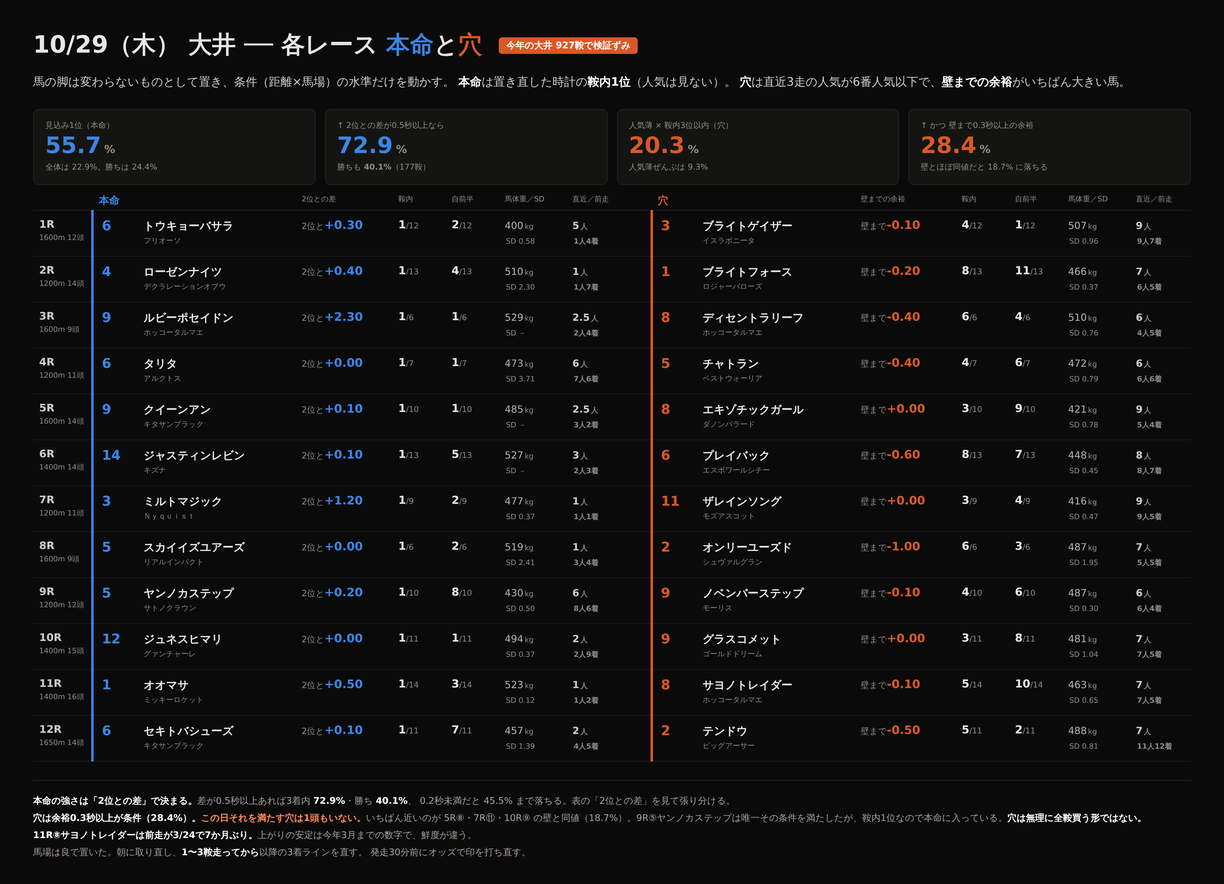
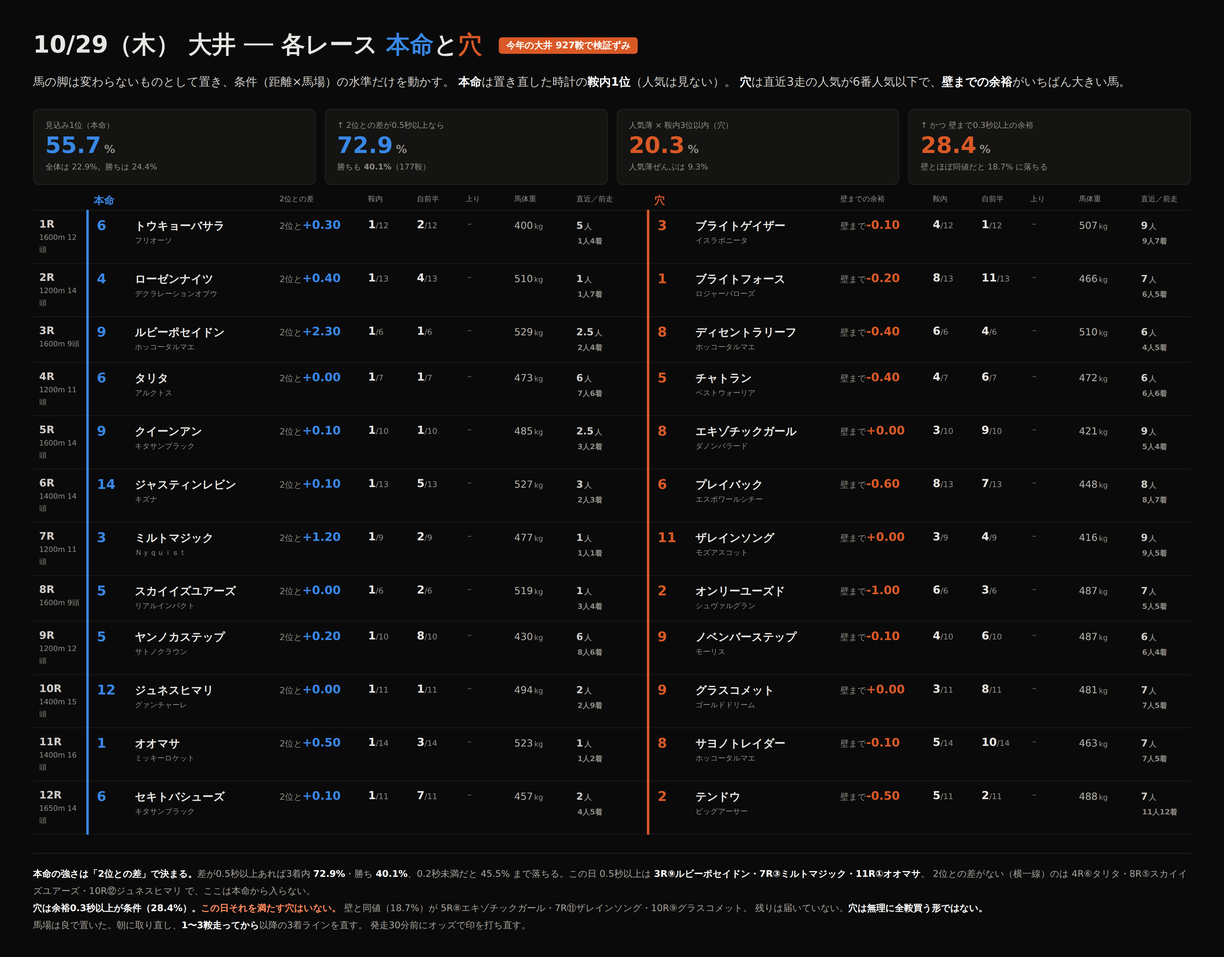
大井 10/28 の本命・穴と、脚注をその日の中身から組むように
脚注に前日ぶんの馬名が残っていたので、本命の「2位との差」と
穴の「壁までの余裕」からその場で文を組むようにした。
上がり（同距離帯の過去の中央値）の鞍内順位の欄も足した。

10/28
  本命で2位との差0.5秒以上 … なし（最大は5R⑧の+0.40）
  穴で余裕0.3秒以上 … 1R⑩ムーンショア・2R③ノーブルミューズ・
                     3R②グレートロッタリー
  壁と同値 … 4R⑪ガリマド・6R④グロードリーム・8R⑥ハルイチバン

事前に分かる形での検証（今年の大井）
  同距離帯の過去の上がりが鞍内1位  157/404 38.9%（全体18.4%）
    うち6番人気以下                28/165 17.0%
  実際の上がり最速（レース後）      644/899 71.6%

Claude-Session: https://claude.ai/code/session_01RoHscZkr96FNaxQWvUqgEw

diff --git a/notes/live/2026-10-29/ooi_1029.html b/notes/live/2026-10-29/ooi_1029.html
@@ -61,15 +61,12 @@ footer b{color:#fff} footer .hl{color:#ff8a5c;font-weight:700}
   <div class=n>壁とほぼ同値だと 18.7% に落ちる</div></div>
 </div>
 <table><thead><tr><th></th><th class=h colspan=2>本命</th>
-<th>2位との差</th><th>鞍内</th><th>自前半</th><th>馬体重／SD</th><th>直近／前走</th>
+<th>2位との差</th><th>鞍内</th><th>自前半</th><th>上り</th><th>馬体重</th><th>直近／前走</th>
 <th></th><th class=a colspan=2>穴</th>
-<th>壁までの余裕</th><th>鞍内</th><th>自前半</th><th>馬体重／SD</th><th>直近／前走</th>
-</tr></thead><tbody><tr><td class=r>1R<br><span class=dm>1600m 12頭</span></td><td class=u style="--c:#3987e5">6</td><td class=nm>トウキョーバサラ<span class=si>フリオーソ</span></td><td class=ex style="--c:#3987e5">2位と<b>+0.30</b></td><td class=rk><b>1</b>/12</td><td class=rk><b>2</b>/12</td><td class=sm>400<span class=un>kg</span><br><span class=un>SD 0.58</span></td><td class=pp>5<span class=un>人</span><br><span class=un>1人4着</span></td><td class=gap></td><td class=u style="--c:#d95926">3</td><td class=nm>ブライトゲイザー<span class=si>イスラボニータ</span></td><td class=ex style="--c:#d95926">壁まで<b>-0.10</b></td><td class=rk><b>4</b>/12</td><td class=rk><b>1</b>/12</td><td class=sm>507<span class=un>kg</span><br><span class=un>SD 0.96</span></td><td class=pp>9<span class=un>人</span><br><span class=un>9人7着</span></td></tr><tr><td class=r>2R<br><span class=dm>1200m 14頭</span></td><td class=u style="--c:#3987e5">4</td><td class=nm>ローゼンナイツ<span class=si>デクラレーションオブウ</span></td><td class=ex style="--c:#3987e5">2位と<b>+0.40</b></td><td class=rk><b>1</b>/13</td><td class=rk><b>4</b>/13</td><td class=sm>510<span class=un>kg</span><br><span class=un>SD 2.30</span></td><td class=pp>1<span class=un>人</span><br><span class=un>1人7着</span></td><td class=gap></td><td class=u style="--c:#d95926">1</td><td class=nm>ブライトフォース<span class=si>ロジャーバローズ</span></td><td class=ex style="--c:#d95926">壁まで<b>-0.20</b></td><td class=rk><b>8</b>/13</td><td class=rk><b>11</b>/13</td><td class=sm>466<span class=un>kg</span><br><span class=un>SD 0.37</span></td><td class=pp>7<span class=un>人</span><br><span class=un>6人5着</span></td></tr><tr><td class=r>3R<br><span class=dm>1600m 9頭</span></td><td class=u style="--c:#3987e5">9</td><td class=nm>ルビーポセイドン<span class=si>ホッコータルマエ</span></td><td class=ex style="--c:#3987e5">2位と<b>+2.30</b></td><td class=rk><b>1</b>/6</td><td class=rk><b>1</b>/6</td><td class=sm>529<span class=un>kg</span><br><span class=un>SD －</span></td><td class=pp>2.5<span class=un>人</span><br><span class=un>2人4着</span></td><td class=gap></td><td class=u style="--c:#d95926">8</td><td class=nm>ディセントラリーフ<span class=si>ホッコータルマエ</span></td><td class=ex style="--c:#d95926">壁まで<b>-0.40</b></td><td class=rk><b>6</b>/6</td><td class=rk><b>4</b>/6</td><td class=sm>510<span class=un>kg</span><br><span class=un>SD 0.76</span></td><td class=pp>6<span class=un>人</span><br><span class=un>4人5着</span></td></tr><tr><td class=r>4R<br><span class=dm>1200m 11頭</span></td><td class=u style="--c:#3987e5">6</td><td class=nm>タリタ<span class=si>アルクトス</span></td><td class=ex style="--c:#3987e5">2位と<b>+0.00</b></td><td class=rk><b>1</b>/7</td><td class=rk><b>1</b>/7</td><td class=sm>473<span class=un>kg</span><br><span class=un>SD 3.71</span></td><td class=pp>6<span class=un>人</span><br><span class=un>7人6着</span></td><td class=gap></td><td class=u style="--c:#d95926">5</td><td class=nm>チャトラン<span class=si>ベストウォーリア</span></td><td class=ex style="--c:#d95926">壁まで<b>-0.40</b></td><td class=rk><b>4</b>/7</td><td class=rk><b>6</b>/7</td><td class=sm>472<span class=un>kg</span><br><span class=un>SD 0.79</span></td><td class=pp>6<span class=un>人</span><br><span class=un>6人6着</span></td></tr><tr><td class=r>5R<br><span class=dm>1600m 14頭</span></td><td class=u style="--c:#3987e5">9</td><td class=nm>クイーンアン<span class=si>キタサンブラック</span></td><td class=ex style="--c:#3987e5">2位と<b>+0.10</b></td><td class=rk><b>1</b>/10</td><td class=rk><b>1</b>/10</td><td class=sm>485<span class=un>kg</span><br><span class=un>SD －</span></td><td class=pp>2.5<span class=un>人</span><br><span class=un>3人2着</span></td><td class=gap></td><td class=u style="--c:#d95926">8</td><td class=nm>エキゾチックガール<span class=si>ダノンバラード</span></td><td class=ex style="--c:#d95926">壁まで<b>+0.00</b></td><td class=rk><b>3</b>/10</td><td class=rk><b>9</b>/10</td><td class=sm>421<span class=un>kg</span><br><span class=un>SD 0.78</span></td><td class=pp>9<span class=un>人</span><br><span class=un>5人4着</span></td></tr><tr><td class=r>6R<br><span class=dm>1400m 14頭</span></td><td class=u style="--c:#3987e5">14</td><td class=nm>ジャスティンレビン<span class=si>キズナ</span></td><td class=ex style="--c:#3987e5">2位と<b>+0.10</b></td><td class=rk><b>1</b>/13</td><td class=rk><b>5</b>/13</td><td class=sm>527<span class=un>kg</span><br><span class=un>SD －</span></td><td class=pp>3<span class=un>人</span><br><span class=un>2人3着</span></td><td class=gap></td><td class=u style="--c:#d95926">6</td><td class=nm>プレイバック<span class=si>エスポワールシチー</span></td><td class=ex style="--c:#d95926">壁まで<b>-0.60</b></td><td class=rk><b>8</b>/13</td><td class=rk><b>7</b>/13</td><td class=sm>448<span class=un>kg</span><br><span class=un>SD 0.45</span></td><td class=pp>8<span class=un>人</span><br><span class=un>8人7着</span></td></tr><tr><td class=r>7R<br><span class=dm>1200m 11頭</span></td><td class=u style="--c:#3987e5">3</td><td class=nm>ミルトマジック<span class=si>Ｎｙｑｕｉｓｔ</span></td><td class=ex style="--c:#3987e5">2位と<b>+1.20</b></td><td class=rk><b>1</b>/9</td><td class=rk><b>2</b>/9</td><td class=sm>477<span class=un>kg</span><br><span class=un>SD 0.37</span></td><td class=pp>1<span class=un>人</span><br><span class=un>1人1着</span></td><td class=gap></td><td class=u style="--c:#d95926">11</td><td class=nm>ザレインソング<span class=si>モズアスコット</span></td><td class=ex style="--c:#d95926">壁まで<b>+0.00</b></td><td class=rk><b>3</b>/9</td><td class=rk><b>4</b>/9</td><td class=sm>416<span class=un>kg</span><br><span class=un>SD 0.47</span></td><td class=pp>9<span class=un>人</span><br><span class=un>9人5着</span></td></tr><tr><td class=r>8R<br><span class=dm>1600m 9頭</span></td><td class=u style="--c:#3987e5">5</td><td class=nm>スカイイズユアーズ<span class=si>リアルインパクト</span></td><td class=ex style="--c:#3987e5">2位と<b>+0.00</b></td><td class=rk><b>1</b>/6</td><td class=rk><b>2</b>/6</td><td class=sm>519<span class=un>kg</span><br><span class=un>SD 2.41</span></td><td class=pp>1<span class=un>人</span><br><span class=un>3人4着</span></td><td class=gap></td><td class=u style="--c:#d95926">2</td><td class=nm>オンリーユーズド<span class=si>シュヴァルグラン</span></td><td class=ex style="--c:#d95926">壁まで<b>-1.00</b></td><td class=rk><b>6</b>/6</td><td class=rk><b>3</b>/6</td><td class=sm>487<span class=un>kg</span><br><span class=un>SD 1.95</span></td><td class=pp>7<span class=un>人</span><br><span class=un>5人5着</span></td></tr><tr><td class=r>9R<br><span class=dm>1200m 12頭</span></td><td class=u style="--c:#3987e5">5</td><td class=nm>ヤンノカステップ<span class=si>サトノクラウン</span></td><td class=ex style="--c:#3987e5">2位と<b>+0.20</b></td><td class=rk><b>1</b>/10</td><td class=rk><b>8</b>/10</td><td class=sm>430<span class=un>kg</span><br><span class=un>SD 0.50</span></td><td class=pp>6<span class=un>人</span><br><span class=un>8人6着</span></td><td class=gap></td><td class=u style="--c:#d95926">9</td><td class=nm>ノベンバーステップ<span class=si>モーリス</span></td><td class=ex style="--c:#d95926">壁まで<b>-0.10</b></td><td class=rk><b>4</b>/10</td><td class=rk><b>6</b>/10</td><td class=sm>487<span class=un>kg</span><br><span class=un>SD 0.30</span></td><td class=pp>6<span class=un>人</span><br><span class=un>6人4着</span></td></tr><tr><td class=r>10R<br><span class=dm>1400m 15頭</span></td><td class=u style="--c:#3987e5">12</td><td class=nm>ジュネスヒマリ<span class=si>グァンチャーレ</span></td><td class=ex style="--c:#3987e5">2位と<b>+0.00</b></td><td class=rk><b>1</b>/11</td><td class=rk><b>1</b>/11</td><td class=sm>494<span class=un>kg</span><br><span class=un>SD 0.37</span></td><td class=pp>2<span class=un>人</span><br><span class=un>2人9着</span></td><td class=gap></td><td class=u style="--c:#d95926">9</td><td class=nm>グラスコメット<span class=si>ゴールドドリーム</span></td><td class=ex style="--c:#d95926">壁まで<b>+0.00</b></td><td class=rk><b>3</b>/11</td><td class=rk><b>8</b>/11</td><td class=sm>481<span class=un>kg</span><br><span class=un>SD 1.04</span></td><td class=pp>7<span class=un>人</span><br><span class=un>7人5着</span></td></tr><tr><td class=r>11R<br><span class=dm>1400m 16頭</span></td><td class=u style="--c:#3987e5">1</td><td class=nm>オオマサ<span class=si>ミッキーロケット</span></td><td class=ex style="--c:#3987e5">2位と<b>+0.50</b></td><td class=rk><b>1</b>/14</td><td class=rk><b>3</b>/14</td><td class=sm>523<span class=un>kg</span><br><span class=un>SD 0.12</span></td><td class=pp>1<span class=un>人</span><br><span class=un>1人2着</span></td><td class=gap></td><td class=u style="--c:#d95926">8</td><td class=nm>サヨノトレイダー<span class=si>ホッコータルマエ</span></td><td class=ex style="--c:#d95926">壁まで<b>-0.10</b></td><td class=rk><b>5</b>/14</td><td class=rk><b>10</b>/14</td><td class=sm>463<span class=un>kg</span><br><span class=un>SD 0.65</span></td><td class=pp>7<span class=un>人</span><br><span class=un>7人5着</span></td></tr><tr><td class=r>12R<br><span class=dm>1650m 14頭</span></td><td class=u style="--c:#3987e5">6</td><td class=nm>セキトバシューズ<span class=si>キタサンブラック</span></td><td class=ex style="--c:#3987e5">2位と<b>+0.10</b></td><td class=rk><b>1</b>/11</td><td class=rk><b>7</b>/11</td><td class=sm>457<span class=un>kg</span><br><span class=un>SD 1.39</span></td><td class=pp>2<span class=un>人</span><br><span class=un>4人5着</span></td><td class=gap></td><td class=u style="--c:#d95926">2</td><td class=nm>テンドウ<span class=si>ビッグアーサー</span></td><td class=ex style="--c:#d95926">壁まで<b>-0.50</b></td><td class=rk><b>5</b>/11</td><td class=rk><b>2</b>/11</td><td class=sm>488<span class=un>kg</span><br><span class=un>SD 0.81</span></td><td class=pp>7<span class=un>人</span><br><span class=un>11人12着</span></td></tr></tbody></table>
+<th>壁までの余裕</th><th>鞍内</th><th>自前半</th><th>上り</th><th>馬体重</th><th>直近／前走</th>
+</tr></thead><tbody><tr><td class=r>1R<br><span class=dm>1600m 12頭</span></td><td class=u style="--c:#3987e5">6</td><td class=nm>トウキョーバサラ<span class=si>フリオーソ</span></td><td class=ex style="--c:#3987e5">2位と<b>+0.30</b></td><td class=rk><b>1</b>/12</td><td class=rk><b>2</b>/12</td><td class=rk>－</td><td class=sm>400<span class=un>kg</span></td><td class=pp>5<span class=un>人</span><br><span class=un>1人4着</span></td><td class=gap></td><td class=u style="--c:#d95926">3</td><td class=nm>ブライトゲイザー<span class=si>イスラボニータ</span></td><td class=ex style="--c:#d95926">壁まで<b>-0.10</b></td><td class=rk><b>4</b>/12</td><td class=rk><b>1</b>/12</td><td class=rk>－</td><td class=sm>507<span class=un>kg</span></td><td class=pp>9<span class=un>人</span><br><span class=un>9人7着</span></td></tr><tr><td class=r>2R<br><span class=dm>1200m 14頭</span></td><td class=u style="--c:#3987e5">4</td><td class=nm>ローゼンナイツ<span class=si>デクラレーションオブウ</span></td><td class=ex style="--c:#3987e5">2位と<b>+0.40</b></td><td class=rk><b>1</b>/13</td><td class=rk><b>4</b>/13</td><td class=rk>－</td><td class=sm>510<span class=un>kg</span></td><td class=pp>1<span class=un>人</span><br><span class=un>1人7着</span></td><td class=gap></td><td class=u style="--c:#d95926">1</td><td class=nm>ブライトフォース<span class=si>ロジャーバローズ</span></td><td class=ex style="--c:#d95926">壁まで<b>-0.20</b></td><td class=rk><b>8</b>/13</td><td class=rk><b>11</b>/13</td><td class=rk>－</td><td class=sm>466<span class=un>kg</span></td><td class=pp>7<span class=un>人</span><br><span class=un>6人5着</span></td></tr><tr><td class=r>3R<br><span class=dm>1600m 9頭</span></td><td class=u style="--c:#3987e5">9</td><td class=nm>ルビーポセイドン<span class=si>ホッコータルマエ</span></td><td class=ex style="--c:#3987e5">2位と<b>+2.30</b></td><td class=rk><b>1</b>/6</td><td class=rk><b>1</b>/6</td><td class=rk>－</td><td class=sm>529<span class=un>kg</span></td><td class=pp>2.5<span class=un>人</span><br><span class=un>2人4着</span></td><td class=gap></td><td class=u style="--c:#d95926">8</td><td class=nm>ディセントラリーフ<span class=si>ホッコータルマエ</span></td><td class=ex style="--c:#d95926">壁まで<b>-0.40</b></td><td class=rk><b>6</b>/6</td><td class=rk><b>4</b>/6</td><td class=rk>－</td><td class=sm>510<span class=un>kg</span></td><td class=pp>6<span class=un>人</span><br><span class=un>4人5着</span></td></tr><tr><td class=r>4R<br><span class=dm>1200m 11頭</span></td><td class=u style="--c:#3987e5">6</td><td class=nm>タリタ<span class=si>アルクトス</span></td><td class=ex style="--c:#3987e5">2位と<b>+0.00</b></td><td class=rk><b>1</b>/7</td><td class=rk><b>1</b>/7</td><td class=rk>－</td><td class=sm>473<span class=un>kg</span></td><td class=pp>6<span class=un>人</span><br><span class=un>7人6着</span></td><td class=gap></td><td class=u style="--c:#d95926">5</td><td class=nm>チャトラン<span class=si>ベストウォーリア</span></td><td class=ex style="--c:#d95926">壁まで<b>-0.40</b></td><td class=rk><b>4</b>/7</td><td class=rk><b>6</b>/7</td><td class=rk>－</td><td class=sm>472<span class=un>kg</span></td><td class=pp>6<span class=un>人</span><br><span class=un>6人6着</span></td></tr><tr><td class=r>5R<br><span class=dm>1600m 14頭</span></td><td class=u style="--c:#3987e5">9</td><td class=nm>クイーンアン<span class=si>キタサンブラック</span></td><td class=ex style="--c:#3987e5">2位と<b>+0.10</b></td><td class=rk><b>1</b>/10</td><td class=rk><b>1</b>/10</td><td class=rk>－</td><td class=sm>485<span class=un>kg</span></td><td class=pp>2.5<span class=un>人</span><br><span class=un>3人2着</span></td><td class=gap></td><td class=u style="--c:#d95926">8</td><td class=nm>エキゾチックガール<span class=si>ダノンバラード</span></td><td class=ex style="--c:#d95926">壁まで<b>+0.00</b></td><td class=rk><b>3</b>/10</td><td class=rk><b>9</b>/10</td><td class=rk>－</td><td class=sm>421<span class=un>kg</span></td><td class=pp>9<span class=un>人</span><br><span class=un>5人4着</span></td></tr><tr><td class=r>6R<br><span class=dm>1400m 14頭</span></td><td class=u style="--c:#3987e5">14</td><td class=nm>ジャスティンレビン<span class=si>キズナ</span></td><td class=ex style="--c:#3987e5">2位と<b>+0.10</b></td><td class=rk><b>1</b>/13</td><td class=rk><b>5</b>/13</td><td class=rk>－</td><td class=sm>527<span class=un>kg</span></td><td class=pp>3<span class=un>人</span><br><span class=un>2人3着</span></td><td class=gap></td><td class=u style="--c:#d95926">6</td><td class=nm>プレイバック<span class=si>エスポワールシチー</span></td><td class=ex style="--c:#d95926">壁まで<b>-0.60</b></td><td class=rk><b>8</b>/13</td><td class=rk><b>7</b>/13</td><td class=rk>－</td><td class=sm>448<span class=un>kg</span></td><td class=pp>8<span class=un>人</span><br><span class=un>8人7着</span></td></tr><tr><td class=r>7R<br><span class=dm>1200m 11頭</span></td><td class=u style="--c:#3987e5">3</td><td class=nm>ミルトマジック<span class=si>Ｎｙｑｕｉｓｔ</span></td><td class=ex style="--c:#3987e5">2位と<b>+1.20</b></td><td class=rk><b>1</b>/9</td><td class=rk><b>2</b>/9</td><td class=rk>－</td><td class=sm>477<span class=un>kg</span></td><td class=pp>1<span class=un>人</span><br><span class=un>1人1着</span></td><td class=gap></td><td class=u style="--c:#d95926">11</td><td class=nm>ザレインソング<span class=si>モズアスコット</span></td><td class=ex style="--c:#d95926">壁まで<b>+0.00</b></td><td class=rk><b>3</b>/9</td><td class=rk><b>4</b>/9</td><td class=rk>－</td><td class=sm>416<span class=un>kg</span></td><td class=pp>9<span class=un>人</span><br><span class=un>9人5着</span></td></tr><tr><td class=r>8R<br><span class=dm>1600m 9頭</span></td><td class=u style="--c:#3987e5">5</td><td class=nm>スカイイズユアーズ<span class=si>リアルインパクト</span></td><td class=ex style="--c:#3987e5">2位と<b>+0.00</b></td><td class=rk><b>1</b>/6</td><td class=rk><b>2</b>/6</td><td class=rk>－</td><td class=sm>519<span class=un>kg</span></td><td class=pp>1<span class=un>人</span><br><span class=un>3人4着</span></td><td class=gap></td><td class=u style="--c:#d95926">2</td><td class=nm>オンリーユーズド<span class=si>シュヴァルグラン</span></td><td class=ex style="--c:#d95926">壁まで<b>-1.00</b></td><td class=rk><b>6</b>/6</td><td class=rk><b>3</b>/6</td><td class=rk>－</td><td class=sm>487<span class=un>kg</span></td><td class=pp>7<span class=un>人</span><br><span class=un>5人5着</span></td></tr><tr><td class=r>9R<br><span class=dm>1200m 12頭</span></td><td class=u style="--c:#3987e5">5</td><td class=nm>ヤンノカステップ<span class=si>サトノクラウン</span></td><td class=ex style="--c:#3987e5">2位と<b>+0.20</b></td><td class=rk><b>1</b>/10</td><td class=rk><b>8</b>/10</td><td class=rk>－</td><td class=sm>430<span class=un>kg</span></td><td class=pp>6<span class=un>人</span><br><span class=un>8人6着</span></td><td class=gap></td><td class=u style="--c:#d95926">9</td><td class=nm>ノベンバーステップ<span class=si>モーリス</span></td><td class=ex style="--c:#d95926">壁まで<b>-0.10</b></td><td class=rk><b>4</b>/10</td><td class=rk><b>6</b>/10</td><td class=rk>－</td><td class=sm>487<span class=un>kg</span></td><td class=pp>6<span class=un>人</span><br><span class=un>6人4着</span></td></tr><tr><td class=r>10R<br><span class=dm>1400m 15頭</span></td><td class=u style="--c:#3987e5">12</td><td class=nm>ジュネスヒマリ<span class=si>グァンチャーレ</span></td><td class=ex style="--c:#3987e5">2位と<b>+0.00</b></td><td class=rk><b>1</b>/11</td><td class=rk><b>1</b>/11</td><td class=rk>－</td><td class=sm>494<span class=un>kg</span></td><td class=pp>2<span class=un>人</span><br><span class=un>2人9着</span></td><td class=gap></td><td class=u style="--c:#d95926">9</td><td class=nm>グラスコメット<span class=si>ゴールドドリーム</span></td><td class=ex style="--c:#d95926">壁まで<b>+0.00</b></td><td class=rk><b>3</b>/11</td><td class=rk><b>8</b>/11</td><td class=rk>－</td><td class=sm>481<span class=un>kg</span></td><td class=pp>7<span class=un>人</span><br><span class=un>7人5着</span></td></tr><tr><td class=r>11R<br><span class=dm>1400m 16頭</span></td><td class=u style="--c:#3987e5">1</td><td class=nm>オオマサ<span class=si>ミッキーロケット</span></td><td class=ex style="--c:#3987e5">2位と<b>+0.50</b></td><td class=rk><b>1</b>/14</td><td class=rk><b>3</b>/14</td><td class=rk>－</td><td class=sm>523<span class=un>kg</span></td><td class=pp>1<span class=un>人</span><br><span class=un>1人2着</span></td><td class=gap></td><td class=u style="--c:#d95926">8</td><td class=nm>サヨノトレイダー<span class=si>ホッコータルマエ</span></td><td class=ex style="--c:#d95926">壁まで<b>-0.10</b></td><td class=rk><b>5</b>/14</td><td class=rk><b>10</b>/14</td><td class=rk>－</td><td class=sm>463<span class=un>kg</span></td><td class=pp>7<span class=un>人</span><br><span class=un>7人5着</span></td></tr><tr><td class=r>12R<br><span class=dm>1650m 14頭</span></td><td class=u style="--c:#3987e5">6</td><td class=nm>セキトバシューズ<span class=si>キタサンブラック</span></td><td class=ex style="--c:#3987e5">2位と<b>+0.10</b></td><td class=rk><b>1</b>/11</td><td class=rk><b>7</b>/11</td><td class=rk>－</td><td class=sm>457<span class=un>kg</span></td><td class=pp>2<span class=un>人</span><br><span class=un>4人5着</span></td><td class=gap></td><td class=u style="--c:#d95926">2</td><td class=nm>テンドウ<span class=si>ビッグアーサー</span></td><td class=ex style="--c:#d95926">壁まで<b>-0.50</b></td><td class=rk><b>5</b>/11</td><td class=rk><b>2</b>/11</td><td class=rk>－</td><td class=sm>488<span class=un>kg</span></td><td class=pp>7<span class=un>人</span><br><span class=un>11人12着</span></td></tr></tbody></table>
 <footer>
-<b>本命の強さは「2位との差」で決まる。</b>差が0.5秒以上あれば3着内 <b>72.9%</b>・勝ち <b>40.1%</b>、
-0.2秒未満だと 45.5% まで落ちる。表の「2位との差」を見て張り分ける。<br>
-<b>穴は余裕0.3秒以上が条件（28.4%）。</b><span class=hl>この日それを満たす穴は1頭もいない。</span>いちばん近いのが 5R⑧・7R⑪・10R⑨ の壁と同値（18.7%）。9R⑤ヤンノカステップは唯一その条件を満たしたが、鞍内1位なので本命に入っている。<b>穴は無理に全鞍買う形ではない。</b><br>
-<b>11R⑧サヨノトレイダーは前走が3/24で7か月ぶり。</b>上がりの安定は今年3月までの数字で、鮮度が違う。<br>
+<b>本命の強さは「2位との差」で決まる。</b>差が0.5秒以上あれば3着内 <b>72.9%</b>・勝ち <b>40.1%</b>、0.2秒未満だと 45.5% まで落ちる。この日 0.5秒以上は <b>3R⑨ルビーポセイドン・7R③ミルトマジック・11R①オオマサ</b>。 2位との差がない（横一線）のは 4R⑥タリタ・8R⑤スカイイズユアーズ・10R⑫ジュネスヒマリ で、ここは本命から入らない。<br><b>穴は余裕0.3秒以上が条件（28.4%）。</b><span class=hl>この日それを満たす穴はいない。</span> 壁と同値（18.7%）が 5R⑧エキゾチックガール・7R⑪ザレインソング・10R⑨グラスコメット。 残りは届いていない。<b>穴は無理に全鞍買う形ではない。</b><br>
 馬場は良で置いた。朝に取り直し、<b>1〜3鞍走ってから</b>以降の3着ラインを直す。
 発走30分前にオッズで印を打ち直す。
 </footer></body></html>

diff --git a/notes/live/2026-10-28/ooi_1028_12r.html b/notes/live/2026-10-28/ooi_1028_12r.html
@@ -1,0 +1,72 @@
+<!doctype html><html lang=ja><head><meta charset=utf-8>
+<style>
+*{box-sizing:border-box;margin:0;padding:0}
+body{background:#0a0a0a;color:#e8e6e3;font-family:"Hiragino Sans","Noto Sans JP",system-ui,sans-serif;
+ padding:46px 54px 38px;width:2000px;-webkit-font-smoothing:antialiased}
+h1{font-size:39px;font-weight:800} h1 .b{color:#3987e5} h1 .a{color:#d95926}
+.tag{display:inline-block;background:#d95926;color:#fff;font-size:15px;font-weight:700;
+ padding:4px 12px;border-radius:5px;margin-left:14px;vertical-align:7px}
+.lead{margin-top:17px;font-size:19px;line-height:1.85;color:#cfccc8;max-width:1880px}
+.lead b{color:#fff} .lead .hl{color:#ff8a5c;font-weight:700}
+.tiles{display:grid;grid-template-columns:repeat(4,1fr);gap:15px;margin:26px 0 6px}
+.tile{background:#141412;border:1px solid #262622;border-radius:10px;padding:17px 19px}
+.tile .k{font-size:13px;color:#8e8a84}
+.tile .v{font-size:37px;font-weight:800;margin-top:5px;line-height:1}
+.tile .v small{font-size:18px;color:#8e8a84;margin-left:5px}
+.tile .n{font-size:13px;color:#8e8a84;margin-top:8px;line-height:1.55}
+table{width:100%;border-collapse:collapse;margin-top:14px}
+th{font-size:12px;color:#8e8a84;font-weight:500;text-align:left;padding:0 10px 8px;
+ border-bottom:1px solid #262622}
+th.h{color:#3987e5;font-size:17px;font-weight:800;padding-bottom:4px}
+th.a{color:#d95926;font-size:17px;font-weight:800;padding-bottom:4px}
+td{padding:13px 10px;border-bottom:1px solid #1d1d1a;font-size:16px;vertical-align:top}
+.r{width:74px;color:#cfccc8;font-weight:700;font-size:17px}
+.dm{font-size:12px;color:#8e8a84;font-weight:500}
+.u{width:46px;font-weight:800;font-size:22px;color:var(--c);
+ border-left:4px solid var(--c);padding-left:13px}
+.nm{font-weight:700;font-size:18px;width:196px}
+.si{display:block;font-size:12px;font-weight:500;color:#8e8a84;margin-top:4px}
+.ex{width:118px;color:#8e8a84;font-size:14px;white-space:nowrap}
+.ex b{color:var(--c);font-size:19px;font-variant-numeric:tabular-nums}
+.rk{width:66px;color:#8e8a84;font-variant-numeric:tabular-nums;font-size:13px}
+.rk b{font-size:18px;color:#e8e6e3}
+.sm{width:84px;color:#b5b1ab;font-variant-numeric:tabular-nums;line-height:1.5}
+.un{font-size:12px;color:#8e8a84;margin-left:2px}
+.pp{width:76px;font-weight:700;color:#cfccc8;line-height:1.5}
+.gap{width:30px;border-bottom:1px solid #1d1d1a}
+.none{color:#6e6a64;font-size:15px}
+footer{margin-top:30px;padding-top:20px;border-top:1px solid #262622;
+ font-size:15px;line-height:1.85;color:#a5a19b}
+footer b{color:#fff} footer .hl{color:#ff8a5c;font-weight:700}
+</style></head><body>
+<h1>10/28（水） 大井 ── 各レース <span class=b>本命</span>と<span class=a>穴</span>
+<span class=tag>今年の大井 927鞍で検証ずみ</span></h1>
+<p class=lead>
+馬の脚は変わらないものとして置き、条件（距離×馬場）の水準だけを動かす。
+<b class=b>本命</b>は置き直した時計の<b>鞍内1位</b>（人気は見ない）。
+<b class=a>穴</b>は直近3走の人気が6番人気以下で、<b>壁までの余裕</b>がいちばん大きい馬。
+</p>
+<div class=tiles>
+ <div class=tile><div class=k>見込み1位（本命）</div>
+  <div class=v style="color:#3987e5">55.7<small>%</small></div>
+  <div class=n>全体は 22.9%。勝ちは 24.4%</div></div>
+ <div class=tile><div class=k>↑ 2位との差が0.5秒以上なら</div>
+  <div class=v style="color:#3987e5">72.9<small>%</small></div>
+  <div class=n>勝ちも <b>40.1%</b>（177鞍）</div></div>
+ <div class=tile><div class=k>人気薄 × 鞍内3位以内（穴）</div>
+  <div class=v style="color:#d95926">20.3<small>%</small></div>
+  <div class=n>人気薄ぜんぶは 9.3%</div></div>
+ <div class=tile><div class=k>↑ かつ 壁まで0.3秒以上の余裕</div>
+  <div class=v style="color:#d95926">28.4<small>%</small></div>
+  <div class=n>壁とほぼ同値だと 18.7% に落ちる</div></div>
+</div>
+<table><thead><tr><th></th><th class=h colspan=2>本命</th>
+<th>2位との差</th><th>鞍内</th><th>自前半</th><th>上り</th><th>馬体重</th><th>直近／前走</th>
+<th></th><th class=a colspan=2>穴</th>
+<th>壁までの余裕</th><th>鞍内</th><th>自前半</th><th>上り</th><th>馬体重</th><th>直近／前走</th>
+</tr></thead><tbody><tr><td class=r>1R<br><span class=dm>1400m 11頭</span></td><td class=u style="--c:#3987e5">2</td><td class=nm>ムサシウォリアー<span class=si>マジェスティックウォリ</span></td><td class=ex style="--c:#3987e5">2位と<b>+0.00</b></td><td class=rk><b>1</b>/4</td><td class=rk><b>4</b>/4</td><td class=rk>1/2</td><td class=sm>499<span class=un>kg</span></td><td class=pp>7<span class=un>人</span><br><span class=un>3人6着</span></td><td class=gap></td><td class=u style="--c:#d95926">10</td><td class=nm>ムーンショア<span class=si>ルヴァンスレーヴ</span></td><td class=ex style="--c:#d95926">壁まで<b>+0.30</b></td><td class=rk><b>2</b>/4</td><td class=rk><b>3</b>/4</td><td class=rk>2/2</td><td class=sm>407<span class=un>kg</span></td><td class=pp>6<span class=un>人</span><br><span class=un>8人8着</span></td></tr><tr><td class=r>2R<br><span class=dm>1200m 7頭</span></td><td class=u style="--c:#3987e5">7</td><td class=nm>トンスケ<span class=si>シャンハイボビー</span></td><td class=ex style="--c:#3987e5">2位と<b>+0.30</b></td><td class=rk><b>1</b>/3</td><td class=rk><b>2</b>/3</td><td class=rk>－</td><td class=sm>485<span class=un>kg</span></td><td class=pp>5<span class=un>人</span><br><span class=un>5人7着</span></td><td class=gap></td><td class=u style="--c:#d95926">3</td><td class=nm>ノーブルミューズ<span class=si>サトノアラジン</span></td><td class=ex style="--c:#d95926">壁まで<b>+0.80</b></td><td class=rk><b>2</b>/3</td><td class=rk><b>1</b>/3</td><td class=rk>1/2</td><td class=sm>421<span class=un>kg</span></td><td class=pp>6<span class=un>人</span><br><span class=un>6人5着</span></td></tr><tr><td class=r>3R<br><span class=dm>1600m 11頭</span></td><td class=u style="--c:#3987e5">8</td><td class=nm>ココミサイル<span class=si>ドリームバレンチノ</span></td><td class=ex style="--c:#3987e5">2位と<b>+0.30</b></td><td class=rk><b>1</b>/5</td><td class=rk><b>3</b>/5</td><td class=rk>1/4</td><td class=sm>476<span class=un>kg</span></td><td class=pp>5<span class=un>人</span><br><span class=un>3人2着</span></td><td class=gap></td><td class=u style="--c:#d95926">2</td><td class=nm>グレートロッタリー<span class=si>モーニン</span></td><td class=ex style="--c:#d95926">壁まで<b>+0.30</b></td><td class=rk><b>2</b>/5</td><td class=rk><b>2</b>/5</td><td class=rk>2/4</td><td class=sm>440<span class=un>kg</span></td><td class=pp>6<span class=un>人</span><br><span class=un>9人9着</span></td></tr><tr><td class=r>4R<br><span class=dm>1200m 13頭</span></td><td class=u style="--c:#3987e5">6</td><td class=nm>ベルベットオニキス<span class=si>モズアスコット</span></td><td class=ex style="--c:#3987e5">2位と<b>+0.10</b></td><td class=rk><b>1</b>/7</td><td class=rk><b>7</b>/7</td><td class=rk>1/6</td><td class=sm>533<span class=un>kg</span></td><td class=pp>5<span class=un>人</span><br><span class=un>6人7着</span></td><td class=gap></td><td class=u style="--c:#d95926">11</td><td class=nm>ガリマド<span class=si>ノーブルミッション</span></td><td class=ex style="--c:#d95926">壁まで<b>+0.00</b></td><td class=rk><b>3</b>/7</td><td class=rk><b>3</b>/7</td><td class=rk>3/6</td><td class=sm>434<span class=un>kg</span></td><td class=pp>11<span class=un>人</span><br><span class=un>10人9着</span></td></tr><tr><td class=r>5R<br><span class=dm>1600m 14頭</span></td><td class=u style="--c:#3987e5">8</td><td class=nm>ブルーキャット<span class=si>ホッコータルマエ</span></td><td class=ex style="--c:#3987e5">2位と<b>+0.40</b></td><td class=rk><b>1</b>/13</td><td class=rk><b>1</b>/13</td><td class=rk>4/7</td><td class=sm>465<span class=un>kg</span></td><td class=pp>2<span class=un>人</span><br><span class=un>2人11着</span></td><td class=gap></td><td class=u style="--c:#d95926">1</td><td class=nm>ヤッティライネン<span class=si>ハッピースプリント</span></td><td class=ex style="--c:#d95926">壁まで<b>-0.30</b></td><td class=rk><b>6</b>/13</td><td class=rk><b>7</b>/13</td><td class=rk>－</td><td class=sm>442<span class=un>kg</span></td><td class=pp>8<span class=un>人</span><br><span class=un>8人7着</span></td></tr><tr><td class=r>6R<br><span class=dm>1200m 14頭</span></td><td class=u style="--c:#3987e5">11</td><td class=nm>ナムラソラン<span class=si>ミスチヴィアスアレック</span></td><td class=ex style="--c:#3987e5">2位と<b>+0.30</b></td><td class=rk><b>1</b>/14</td><td class=rk><b>4</b>/14</td><td class=rk>1/14</td><td class=sm>443<span class=un>kg</span></td><td class=pp>4<span class=un>人</span><br><span class=un>4人4着</span></td><td class=gap></td><td class=u style="--c:#d95926">4</td><td class=nm>グロードリーム<span class=si>クリソベリル</span></td><td class=ex style="--c:#d95926">壁まで<b>+0.00</b></td><td class=rk><b>4</b>/14</td><td class=rk><b>5</b>/14</td><td class=rk>10/14</td><td class=sm>464<span class=un>kg</span></td><td class=pp>10<span class=un>人</span><br><span class=un>11人12着</span></td></tr><tr><td class=r>7R<br><span class=dm>1600m 13頭</span></td><td class=u style="--c:#3987e5">6</td><td class=nm>ワールドフォンテン<span class=si>トゥザワールド</span></td><td class=ex style="--c:#3987e5">2位と<b>+0.20</b></td><td class=rk><b>1</b>/10</td><td class=rk><b>2</b>/10</td><td class=rk>2/10</td><td class=sm>457<span class=un>kg</span></td><td class=pp>4<span class=un>人</span><br><span class=un>4人1着</span></td><td class=gap></td><td class=u style="--c:#d95926">2</td><td class=nm>ヒンナ<span class=si>マジェスティックウォリ</span></td><td class=ex style="--c:#d95926">壁まで<b>-0.10</b></td><td class=rk><b>4</b>/10</td><td class=rk><b>1</b>/10</td><td class=rk>8/10</td><td class=sm>474<span class=un>kg</span></td><td class=pp>6<span class=un>人</span><br><span class=un>2人4着</span></td></tr><tr><td class=r>8R<br><span class=dm>1400m 11頭</span></td><td class=u style="--c:#3987e5">5</td><td class=nm>リコーヒューズ<span class=si>ヘニーヒューズ</span></td><td class=ex style="--c:#3987e5">2位と<b>+0.20</b></td><td class=rk><b>1</b>/8</td><td class=rk><b>3</b>/8</td><td class=rk>－</td><td class=sm>499<span class=un>kg</span></td><td class=pp>2<span class=un>人</span><br><span class=un>4人4着</span></td><td class=gap></td><td class=u style="--c:#d95926">6</td><td class=nm>ハルイチバン<span class=si>パイロ</span></td><td class=ex style="--c:#d95926">壁まで<b>+0.00</b></td><td class=rk><b>4</b>/8</td><td class=rk><b>1</b>/8</td><td class=rk>－</td><td class=sm>487<span class=un>kg</span></td><td class=pp>6<span class=un>人</span><br><span class=un>7人9着</span></td></tr><tr><td class=r>9R<br><span class=dm>1200m 10頭</span></td><td class=u style="--c:#3987e5">9</td><td class=nm>クミンフレイバー<span class=si>スワーヴリチャード</span></td><td class=ex style="--c:#3987e5">2位と<b>+0.10</b></td><td class=rk><b>1</b>/9</td><td class=rk><b>2</b>/9</td><td class=rk>4/9</td><td class=sm>454<span class=un>kg</span></td><td class=pp>4<span class=un>人</span><br><span class=un>2人1着</span></td><td class=gap></td><td class=u style="--c:#d95926">6</td><td class=nm>インペリオ<span class=si>インカンテーション</span></td><td class=ex style="--c:#d95926">壁まで<b>-0.70</b></td><td class=rk><b>7</b>/9</td><td class=rk><b>7</b>/9</td><td class=rk>6/9</td><td class=sm>466<span class=un>kg</span></td><td class=pp>8<span class=un>人</span><br><span class=un>10人2着</span></td></tr><tr><td class=r>10R<br><span class=dm>1400m 11頭</span></td><td class=u style="--c:#3987e5">5</td><td class=nm>コーゲンシルバー<span class=si>インカンテーション</span></td><td class=ex style="--c:#3987e5">2位と<b>+0.30</b></td><td class=rk><b>1</b>/8</td><td class=rk><b>1</b>/8</td><td class=rk>－</td><td class=sm>473<span class=un>kg</span></td><td class=pp>4<span class=un>人</span><br><span class=un>7人10着</span></td><td class=gap></td><td class=u style="--c:#d95926">3</td><td class=nm>ドライブミーホーム<span class=si>フォーウィールドライブ</span></td><td class=ex style="--c:#d95926">壁まで<b>-0.70</b></td><td class=rk><b>6</b>/8</td><td class=rk><b>7</b>/8</td><td class=rk>1/5</td><td class=sm>437<span class=un>kg</span></td><td class=pp>8<span class=un>人</span><br><span class=un>9人6着</span></td></tr><tr><td class=r>11R<br><span class=dm>1600m 13頭</span></td><td class=u style="--c:#3987e5">3</td><td class=nm>ソニックスター<span class=si>Ｉｎｔｏ　Ｍｉｓｃｈｉ</span></td><td class=ex style="--c:#3987e5">2位と<b>+0.00</b></td><td class=rk><b>1</b>/10</td><td class=rk><b>4</b>/10</td><td class=rk>1/2</td><td class=sm>538<span class=un>kg</span></td><td class=pp>1<span class=un>人</span><br><span class=un>1人2着</span></td><td class=gap></td><td class=u style="--c:#d95926">13</td><td class=nm>ナンセイホワイト<span class=si>タリスマニック</span></td><td class=ex style="--c:#d95926">壁まで<b>-0.50</b></td><td class=rk><b>5</b>/10</td><td class=rk><b>1</b>/10</td><td class=rk>－</td><td class=sm>507<span class=un>kg</span></td><td class=pp>7<span class=un>人</span><br><span class=un>12人11着</span></td></tr><tr><td class=r>12R<br><span class=dm>2400m 13頭</span></td><td class=u style="--c:#3987e5">11</td><td class=nm>ヴュルディヒ<span class=si>サンダースノー</span></td><td class=ex style="--c:#3987e5">2位と<b>+0.30</b></td><td class=rk><b>1</b>/13</td><td class=rk><b>10</b>/13</td><td class=rk>－</td><td class=sm>483<span class=un>kg</span></td><td class=pp>1<span class=un>人</span><br><span class=un>2人2着</span></td><td class=gap></td><td class=u style="--c:#d95926">1</td><td class=nm>アーススピリット<span class=si>マインドユアビスケッツ</span></td><td class=ex style="--c:#d95926">壁まで<b>-0.20</b></td><td class=rk><b>4</b>/13</td><td class=rk><b>3</b>/13</td><td class=rk>－</td><td class=sm>542<span class=un>kg</span></td><td class=pp>7<span class=un>人</span><br><span class=un>8人5着</span></td></tr></tbody></table>
+<footer>
+<b>本命の強さは「2位との差」で決まる。</b>差が0.5秒以上あれば3着内 <b>72.9%</b>・勝ち <b>40.1%</b>、0.2秒未満だと 45.5% まで落ちる。<span class=hl>この日は0.5秒以上がひとつもない。</span> 2位との差がない（横一線）のは 1R②ムサシウォリアー・11R③ソニックスター で、ここは本命から入らない。<br><b>穴は余裕0.3秒以上が条件（28.4%）。</b>この日の該当は <b>1R⑩ムーンショア・2R③ノーブルミューズ・3R②グレートロッタリー</b>。 壁と同値（18.7%）が 4R⑪ガリマド・6R④グロードリーム・8R⑥ハルイチバン。 残りは届いていない。<b>穴は無理に全鞍買う形ではない。</b><br>
+馬場は良で置いた。朝に取り直し、<b>1〜3鞍走ってから</b>以降の3着ラインを直す。
+発走30分前にオッズで印を打ち直す。
+</footer></body></html>

diff --git a/scripts/ana/ooi_12r_card.py b/scripts/ana/ooi_12r_card.py
@@ -22,7 +22,6 @@ def cell(p, c):
         return '<td colspan=7 class=none>人気薄の候補なし</td>'
     ds = (f"{p['pd']}<span class=ar>→</span>{p['dist']}" if p['pd'] and p['pd'] != p['dist']
           else f"{p['dist']}m")
-    sd = f"{p['sd']:.2f}" if p['sd'] is not None else '－'
     extra = (f'2位と<b>{p["lead"]:+.2f}</b>' if p['kind'] == '本命'
              else f'壁まで<b>{p["slack"]:+.2f}</b>')
     return (f'<td class=u style="--c:{c}">{p["uu"]}</td>'
@@ -31,11 +30,31 @@ def cell(p, c):
             f'<td class=ex style="--c:{c}">{extra}</td>'
             f'<td class=rk><b>{p["rk"]}</b>/{p["nr"]}</td>'
             f'<td class=rk><b>{p["hrk"]}</b>/{p["nr"]}</td>'
-            f'<td class=sm>{p["wt"] or "－"}<span class=un>kg</span><br>'
-            f'<span class=un>SD {sd}</span></td>'
+            f'<td class=rk>{(str(p["ark"])+"/"+str(p["nar"])) if p.get("ark") else "－"}</td>'
+            f'<td class=sm>{p["wt"] or "－"}<span class=un>kg</span></td>'
             f'<td class=pp>{p["pp"]:g}<span class=un>人</span><br>'
             f'<span class=un>{p["ppop"]}人{p["pf"]}着</span></td>')
 
+
+# 脚注はその日の中身から組む
+hon = [p for p in P if p['kind'] == '本命']
+ana = [p for p in P if p['kind'] == '穴']
+strong = [p for p in hon if p['lead'] >= 0.5]
+flat = [p for p in hon if p['lead'] <= 0.05]
+ok = [p for p in ana if p['slack'] >= 0.3]
+even = [p for p in ana if 0 <= p['slack'] < 0.3]
+nm = lambda v: '・'.join(f"{p['R']}R{chr(0x2460 + int(p['uu']) - 1)}{p['nm']}"
+                         if int(p['uu']) <= 20 else f"{p['R']}R{p['uu']}{p['nm']}" for p in v)
+FOOT = ('<b>本命の強さは「2位との差」で決まる。</b>'
+        '差が0.5秒以上あれば3着内 <b>72.9%</b>・勝ち <b>40.1%</b>、0.2秒未満だと 45.5% まで落ちる。'
+        + (f'この日 0.5秒以上は <b>{nm(strong)}</b>。' if strong
+           else '<span class=hl>この日は0.5秒以上がひとつもない。</span>')
+        + (f' 2位との差がない（横一線）のは {nm(flat)} で、ここは本命から入らない。' if flat else '')
+        + '<br><b>穴は余裕0.3秒以上が条件（28.4%）。</b>'
+        + (f'この日の該当は <b>{nm(ok)}</b>。' if ok
+           else '<span class=hl>この日それを満たす穴はいない。</span>')
+        + (f' 壁と同値（18.7%）が {nm(even)}。' if even else '')
+        + ' 残りは届いていない。<b>穴は無理に全鞍買う形ではない。</b><br>')
 
 rows = []
 for R in sorted(BY):
@@ -108,15 +127,12 @@ footer b{{color:#fff}} footer .hl{{color:#ff8a5c;font-weight:700}}
   <div class=n>壁とほぼ同値だと 18.7% に落ちる</div></div>
 </div>
 <table><thead><tr><th></th><th class=h colspan=2>本命</th>
-<th>2位との差</th><th>鞍内</th><th>自前半</th><th>馬体重／SD</th><th>直近／前走</th>
+<th>2位との差</th><th>鞍内</th><th>自前半</th><th>上り</th><th>馬体重</th><th>直近／前走</th>
 <th></th><th class=a colspan=2>穴</th>
-<th>壁までの余裕</th><th>鞍内</th><th>自前半</th><th>馬体重／SD</th><th>直近／前走</th>
+<th>壁までの余裕</th><th>鞍内</th><th>自前半</th><th>上り</th><th>馬体重</th><th>直近／前走</th>
 </tr></thead><tbody>{''.join(rows)}</tbody></table>
 <footer>
-<b>本命の強さは「2位との差」で決まる。</b>差が0.5秒以上あれば3着内 <b>72.9%</b>・勝ち <b>40.1%</b>、
-0.2秒未満だと 45.5% まで落ちる。表の「2位との差」を見て張り分ける。<br>
-<b>穴は余裕0.3秒以上が条件（28.4%）。</b><span class=hl>この日それを満たす穴は1頭もいない。</span>いちばん近いのが 5R⑧・7R⑪・10R⑨ の壁と同値（18.7%）。9R⑤ヤンノカステップは唯一その条件を満たしたが、鞍内1位なので本命に入っている。<b>穴は無理に全鞍買う形ではない。</b><br>
-<b>11R⑧サヨノトレイダーは前走が3/24で7か月ぶり。</b>上がりの安定は今年3月までの数字で、鮮度が違う。<br>
+{FOOT}
 馬場は良で置いた。朝に取り直し、<b>1〜3鞍走ってから</b>以降の3着ラインを直す。
 発走30分前にオッズで印を打ち直す。
 </footer></body></html>'''
